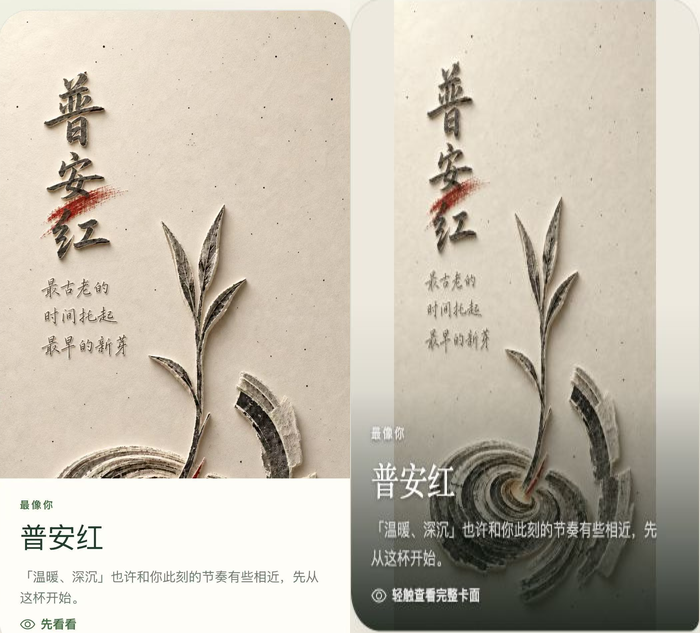
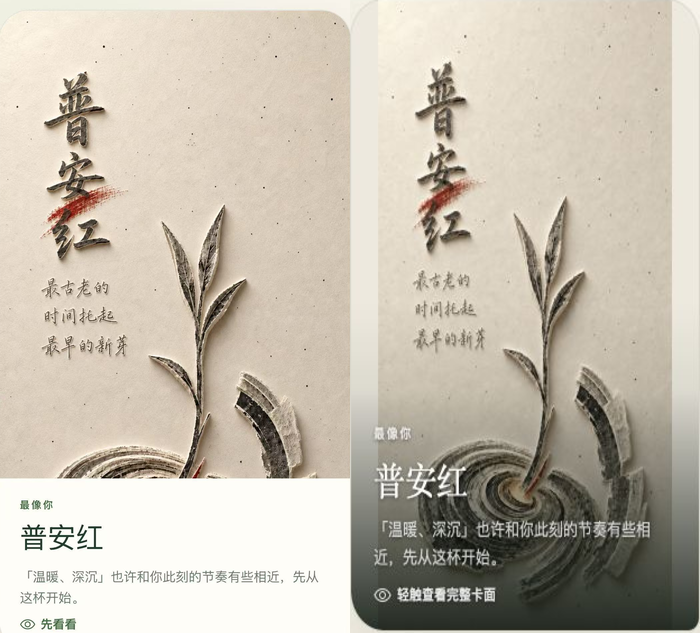
Fit tea recommendations on short screens

Changed region(s): [[0.51, 0.0, 0.96, 0.9005], [0.51, 0.9305, 1.0, 1.0]]

diff --git a/apps/web/app/globals.css b/apps/web/app/globals.css
@@ -837,16 +837,17 @@ button:focus-visible, a:focus-visible, input:focus-visible, textarea:focus-visib
 /* Guided user journey ---------------------------------------------------- */
 .cold-start-shell { padding-bottom: max(28px, env(safe-area-inset-bottom)); }
 .cold-start-screen { min-height: calc(100dvh - 50px); padding-top: max(12px, env(safe-area-inset-top)); }
+.seed-screen { --seed-card-width: min(100%, 312px); display: flex; flex-direction: column; }
 .cold-start-head { display: flex; align-items: center; justify-content: space-between; margin-bottom: 28px; color: var(--muted); font-size: 11px; letter-spacing: .13em; }
 .cold-start-head-with-back { display: grid; grid-template-columns: 44px minmax(0,1fr) auto; gap: 12px; }
 .cold-start-head-with-back .brand { justify-self: start; }
 .cold-start-head .brand { color: var(--ink); font-size: 20px; letter-spacing: .035em; }
 .seed-carousel { margin: 22px 0 16px; }
-.seed-card-motion { touch-action: pan-y; user-select: none; cursor: grab; will-change: transform; }
+.seed-card-motion { width: var(--seed-card-width); margin-inline: auto; touch-action: pan-y; user-select: none; cursor: grab; will-change: transform; }
 .seed-card-motion:active { cursor: grabbing; }
 .seed-card-motion[role="button"] { border-radius: 30px 30px 10px 30px; outline: none; }
 .seed-card-motion[role="button"]:focus-visible { box-shadow: 0 0 0 3px rgba(49,92,66,.3); }
-.seed-focus-card { position: relative; aspect-ratio: 3 / 4; min-height: 0; overflow: hidden; color: white; border: 1px solid rgba(49,92,66,.12); border-radius: 30px 30px 10px 30px; background: #eee9de; box-shadow: 0 20px 48px rgba(37, 57, 40, .11); }
+.seed-focus-card { position: relative; aspect-ratio: 2 / 3; min-height: 0; overflow: hidden; color: white; border: 1px solid rgba(49,92,66,.12); border-radius: 30px 30px 10px 30px; background: #eee9de; box-shadow: 0 20px 48px rgba(37, 57, 40, .11); }
 .seed-focus-card::after { content: ""; position: absolute; z-index: 1; inset: 0; background: linear-gradient(180deg, transparent 48%, rgba(17,28,20,.08) 62%, rgba(17,28,20,.9) 100%); pointer-events: none; }
 .seed-focus-card > img { position: absolute; inset: 0; width: 100%; height: 100%; object-fit: contain; object-position: 50% 50% !important; background: #eee9de; }
 .seed-focus-copy { position: absolute; z-index: 2; left: 0; right: 0; bottom: 0; display: flex; flex-direction: column; align-items: flex-start; padding: 54px 20px 18px; text-shadow: 0 1px 3px rgba(0,0,0,.42); }
@@ -854,7 +855,7 @@ button:focus-visible, a:focus-visible, input:focus-visible, textarea:focus-visib
 .seed-focus-copy h2 { margin: 5px 0 6px; font-family: var(--serif); font-size: 28px; }
 .seed-focus-copy > p { max-width: 95%; margin: 0; color: rgba(255,255,255,.78); font-size: 13px; line-height: 1.6; }
 .seed-preview-hint { display: inline-flex; align-items: center; gap: 5px; margin-top: 9px; color: rgba(255,255,255,.9); font-size: 11px; font-weight: 750; }
-.seed-carousel-controls { display: grid; grid-template-columns: 40px 1fr 40px; align-items: center; margin-top: 12px; }
+.seed-carousel-controls { width: var(--seed-card-width); display: grid; grid-template-columns: 40px 1fr 40px; align-items: center; margin: 12px auto 0; }
 .seed-carousel-controls > button { width: 36px; height: 36px; display: grid; place-items: center; border: 1px solid var(--line); border-radius: 50%; color: var(--ink); background: var(--card); }
 .seed-carousel-controls > button:last-child { justify-self: end; }
 .seed-carousel-controls > button:disabled { opacity: .28; }
@@ -867,7 +868,7 @@ button:focus-visible, a:focus-visible, input:focus-visible, textarea:focus-visib
 .card-preview-layer { position: fixed; z-index: 90; inset: 0; display: grid; place-items: center; padding: max(18px, env(safe-area-inset-top)) 18px max(18px, env(safe-area-inset-bottom)); }
 .card-preview-backdrop { position: absolute; inset: 0; width: 100%; height: 100%; padding: 0; border: 0; background: rgba(9,18,12,.72); backdrop-filter: blur(9px); cursor: pointer; }
 .card-preview-dialog { position: relative; z-index: 1; width: min(100%, 390px); max-height: 94dvh; padding: 10px; border: 1px solid rgba(255,255,255,.18); border-radius: 30px 30px 10px 30px; background: var(--paper); overflow: auto; box-shadow: 0 30px 90px rgba(5,13,8,.5); }
-.card-preview-dialog > img { display: block; width: 100%; height: auto; max-height: 72dvh; aspect-ratio: 3 / 4; object-fit: contain; border-radius: 22px 22px 7px 22px; background: #eee9de; }
+.card-preview-dialog > img { display: block; width: 100%; height: auto; max-height: 72dvh; object-fit: contain; border-radius: 22px 22px 7px 22px; background: #eee9de; }
 .card-preview-close { position: absolute; z-index: 2; top: 20px; right: 20px; width: 42px; height: 42px; display: grid; place-items: center; padding: 0; color: white; border: 1px solid rgba(255,255,255,.32); border-radius: 50%; background: rgba(15,29,20,.5); backdrop-filter: blur(10px); box-shadow: 0 8px 24px rgba(8,16,11,.2); cursor: pointer; }
 .card-preview-close:focus-visible { outline: 3px solid rgba(255,255,255,.76); outline-offset: 2px; }
 .card-preview-copy { padding: 14px 10px 8px; }
@@ -913,4 +914,31 @@ button:focus-visible, a:focus-visible, input:focus-visible, textarea:focus-visib
   .seed-focus-copy h2 { font-size: 25px; }
   .card-preview-layer { padding-inline: 12px; }
   .tea-journey { padding-inline: 15px; }
+}
+
+@media (max-height: 760px) {
+  .cold-start-shell { padding-bottom: max(18px, env(safe-area-inset-bottom)); }
+  .seed-screen { --seed-card-width: min(100%, 268px); min-height: calc(100dvh - 34px); padding-top: max(4px, env(safe-area-inset-top)); }
+  .seed-screen .cold-start-head { min-height: 40px; margin-bottom: 10px; }
+  .seed-screen > .eyebrow { margin-block: 0 3px; }
+  .seed-screen .section-title { margin-bottom: 3px; font-size: 22px; }
+  .seed-screen > .subtitle { font-size: 12px; line-height: 1.55; }
+  .seed-carousel { margin: 9px 0 7px; }
+  .seed-focus-copy { padding: 40px 17px 14px; }
+  .seed-focus-copy h2 { font-size: 24px; }
+  .seed-focus-copy > p { font-size: 11px; line-height: 1.5; }
+  .seed-preview-hint { margin-top: 6px; font-size: 10px; }
+  .seed-carousel-controls { margin-top: 7px; }
+  .seed-carousel-controls > button { width: 32px; height: 32px; }
+  .seed-swipe-hint { margin-top: 1px; }
+  .seed-primary { min-height: 44px; margin-top: 5px; }
+}
+
+@media (max-height: 680px) {
+  .seed-screen { --seed-card-width: min(100%, 236px); }
+  .seed-screen .cold-start-head { min-height: 36px; margin-bottom: 6px; }
+  .seed-carousel { margin-top: 6px; }
+  .seed-focus-copy > p { display: -webkit-box; overflow: hidden; -webkit-box-orient: vertical; -webkit-line-clamp: 2; }
+  .seed-carousel-controls { margin-top: 5px; }
+  .seed-swipe-hint { display: none; }
 }

diff --git a/design-qa.md b/design-qa.md
@@ -5,6 +5,7 @@
 - Full-view comparison: `output/audit/tea-card-preview-2026-08-29/source-vs-implementation.png`
 - Focused card comparison: `output/audit/tea-card-preview-2026-08-29/card-focus-comparison.png`
 - Popup evidence: `output/audit/tea-card-preview-2026-08-29/mbti-seed-modal-390.png` and `output/audit/tea-card-preview-2026-08-29/feed-card-modal-390.png`
+- Short-screen evidence: `output/audit/tea-card-preview-2026-08-29/mbti-seed-card-390x700.png`
 - Viewport: 390 × 844 CSS px, device scale factor 1
 - Source pixels: 1179 × 2556, normalized to 393 × 852
 - Implementation pixels: 390 × 844, normalized to 393 × 852 for the full-view comparison
@@ -15,20 +16,21 @@
 No actionable P0, P1, or P2 differences remain for the requested change.
 
 - Fonts and typography: existing Tea-BTI serif hierarchy and compact supporting copy remain consistent; the white overlay copy remains readable against the stronger bottom fade.
-- Spacing and layout rhythm: the opaque lower panel has been removed, the card is now a single 3:4 surface, and the carousel controls plus primary action fit in the 390 × 844 viewport.
+- Spacing and layout rhythm: the opaque lower panel has been removed, the card is now a narrower 2:3 surface that follows the source art, and the carousel controls plus primary action fit in 390 × 844, 390 × 700 and 320 × 700 viewports without document scrolling.
 - Colors and visual tokens: the implementation retains the warm paper and leaf-green palette while replacing the white information block with a transparent ink-green fade.
-- Image quality and asset fidelity: the original tea-card raster is reused. `object-fit: contain` exposes the full illustration instead of cropping it. Narrow warm-paper side gutters on taller source cards are an intentional tradeoff that preserves the complete design.
+- Image quality and asset fidelity: the original tea-card raster is reused. The compact card now follows the source's 2:3 ratio and `object-fit: contain` exposes the full illustration instead of cropping it.
 - Copy and content: role label, tea name, recommendation explanation and the complete-card affordance remain visible. Tags are preserved in the dialog.
 - Interaction: tapping either the MBTI seed card or the active swipe card opens the matching accessible dialog; close button, backdrop and Escape all close it. Swipe/seed dragging remains attached to the original motion surface.
 
 ## Comparison History
 
 - Initial implementation comparison: the requested opaque lower block was replaced by a transparent gradient and the full-card dialog was present in both entry points. No P0/P1/P2 mismatch was found, so no additional visual correction loop was required.
+- User follow-up iteration: the compact recommendation surface was narrowed from 350 × 468 to 312 × 468 at 390 × 844, and short-height breakpoints reduce it to 268 × 402 at 390 × 700. Post-fix measurements showed `scrollHeight === innerHeight` at both 390 × 700 and 320 × 700, with the primary action bottom at 676.6px in a 700px viewport.
 - Browser console: no warnings or errors during card open/close checks.
 
 ## Follow-up Polish
 
-- P3: card assets with a taller-than-3:4 source ratio show a narrow warm-paper gutter in the compact carousel card. This is acceptable because filling the frame would crop the artwork the user asked to preserve.
+- No remaining P3 visual issue was identified in the requested card and short-screen states.
 
 ## Implementation Checklist
 
@@ -38,5 +40,6 @@ No actionable P0, P1, or P2 differences remain for the requested change.
 - [x] Full-card dialog from active swipe cards
 - [x] Keyboard and dismiss controls
 - [x] 390 × 844 visual and interaction check
+- [x] 390 × 700 and 320 × 700 no-scroll checks
 
 final result: passed
